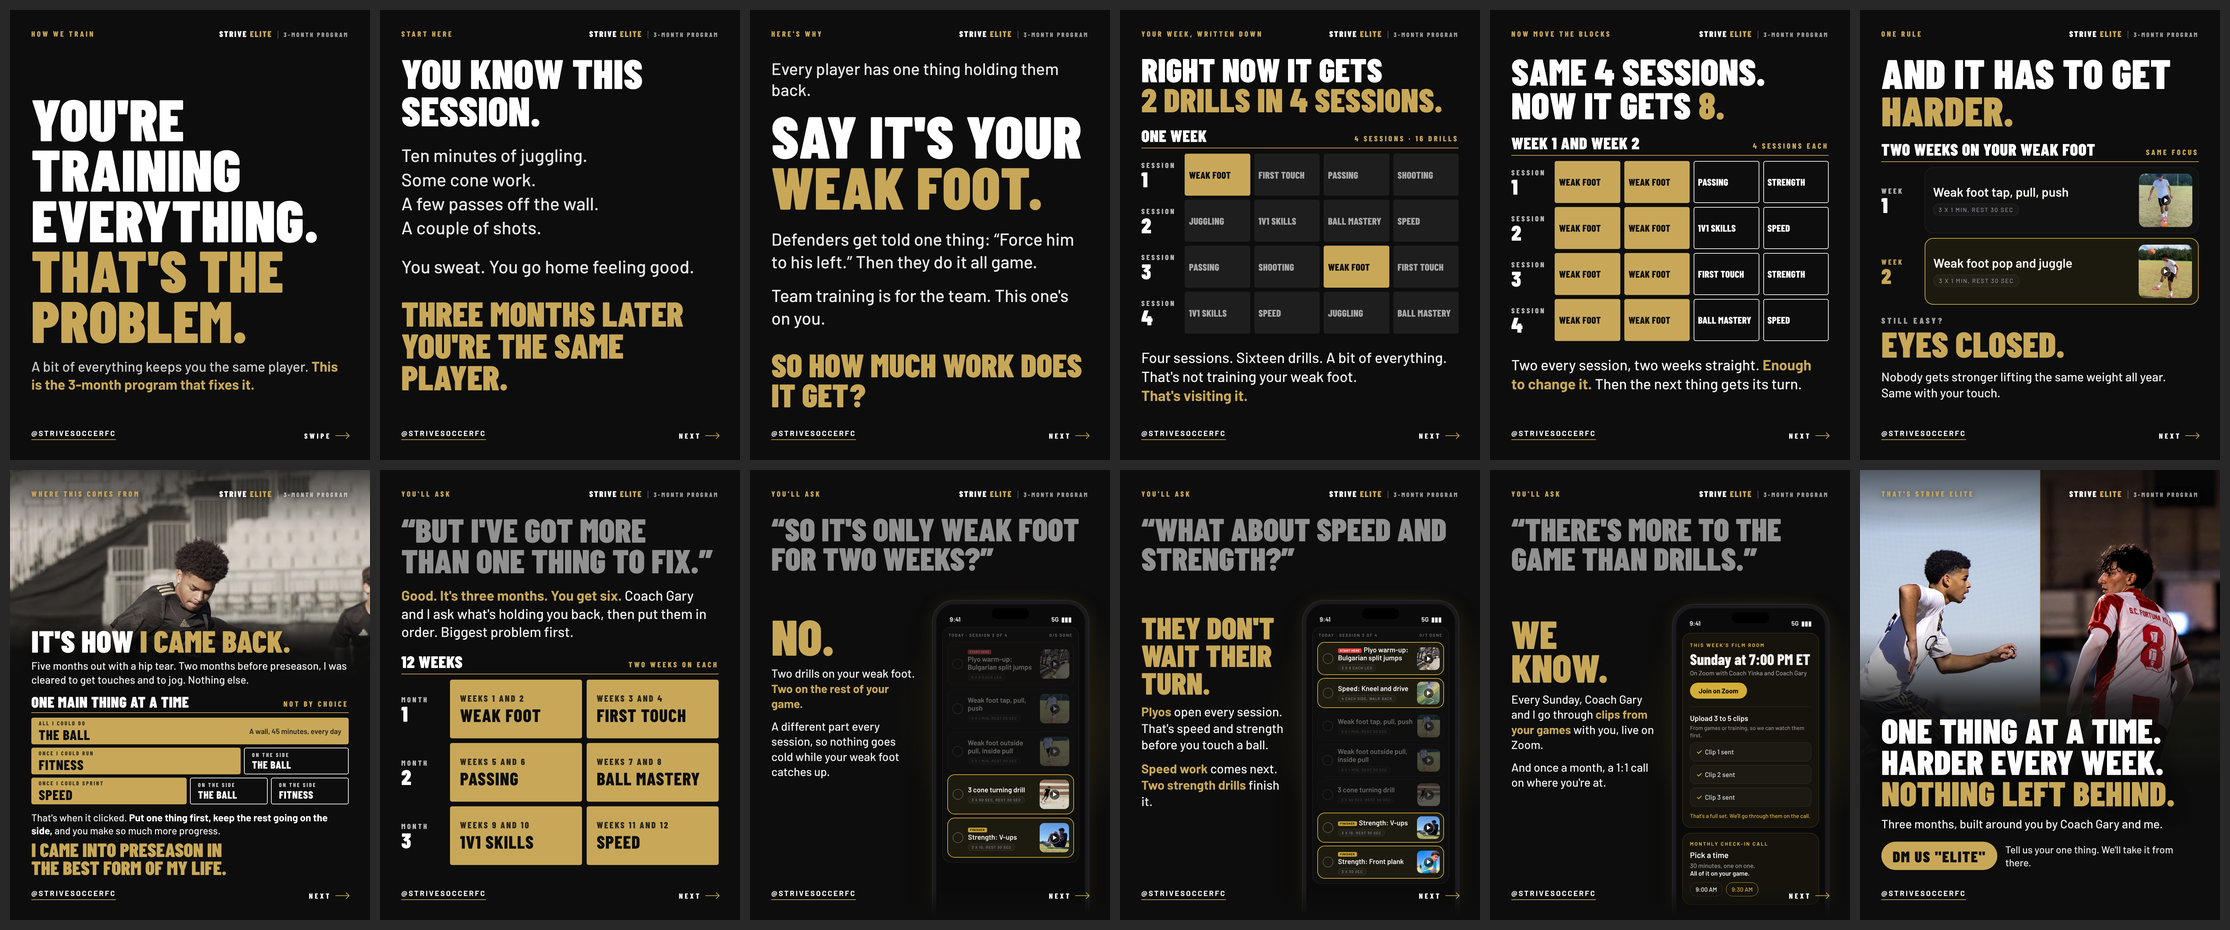
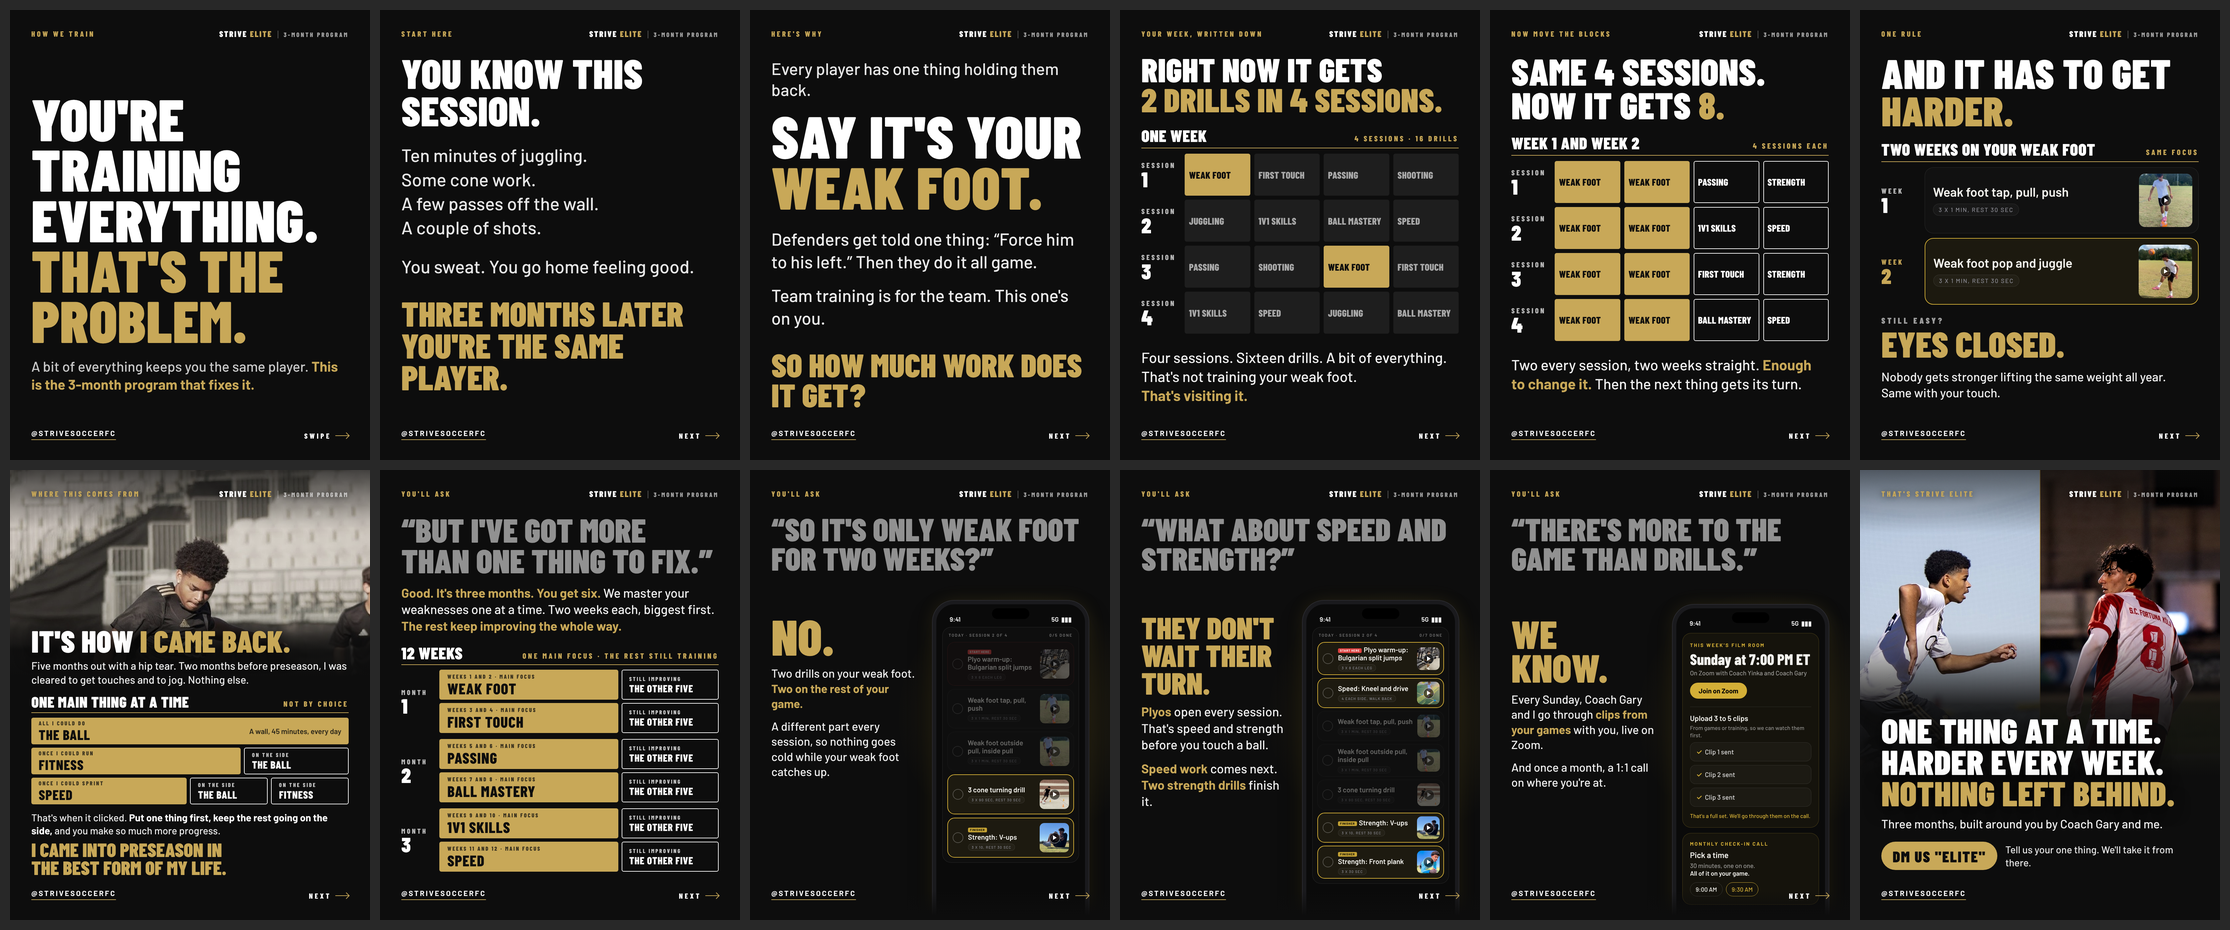
Opinion carousel: six-focus slide shows one main focus with the rest still improving
Claude-Session: https://claude.ai/code/session_011JsCTTjCbUkHbTuWTKQSXJ

Changed region(s): [[0.1547, 0.6237, 0.3404, 0.9355]]

diff --git a/marketing/program/one-thing-carousel-3/08-six.html b/marketing/program/one-thing-carousel-3/08-six.html
@@ -1,15 +1,25 @@
 <!doctype html><meta charset="utf-8"><link rel="stylesheet" href="../../covers/strive-elite-meeting/fonts.css"><link rel="stylesheet" href="style.css"><title>More than one thing</title>
 <style>
-.q{font-size:100px}.a{margin-top:32px;font-size:42px}
-.sched{margin-top:40px}.tt{gap:14px}.tr{gap:14px}.tr{grid-template-columns:132px 1fr 1fr}
-.bk{height:176px;font-size:54px;padding:0 30px}.bk small{font-size:27px;letter-spacing:.14em;margin-bottom:10px;opacity:.85}
+.q{font-size:100px}.a{margin-top:28px;font-size:38px;line-height:1.3}
+.sched{margin-top:34px}
+.hd{padding-bottom:12px;margin-bottom:14px}
+.g6{display:grid;grid-template-columns:104px 1.85fr 1fr;gap:10px 10px}
+.g6 .lb{grid-row:span 2;display:flex;flex-direction:column;justify-content:center;font-family:'Barlow Condensed';font-weight:800;font-size:21px;letter-spacing:.24em;text-transform:uppercase;color:rgba(255,255,255,.72)}
+.g6 .lb b{font-weight:900;font-size:62px;line-height:.9;letter-spacing:0;color:#fff}
+.g6 .bk{height:90px;font-size:46px;padding:0 24px}
+.g6 .bk small{font-size:17px;letter-spacing:.2em;margin-bottom:4px;opacity:.78}
+.g6 .bk.w{font-size:31px;border-width:2px;padding:0 20px}
+.g6 .sp{margin-top:8px}
 </style>
 <div class="top"><div class="step">You'll ask</div><div class="wm">Strive <span>Elite</span><em>3-month program</em></div></div>
 <div class="pad"><div class="q">&ldquo;But I've got more than one thing to fix.&rdquo;</div>
-<p class="p a"><b>Good. It's three months. You get six.</b> Coach Gary and I ask what's holding you back, then put them in order. Biggest problem first.</p>
-<div class="sched"><div class="hd"><b>12 weeks</b><span>Two weeks on each</span></div><div class="tt">
-<div class="tr"><div class="lb">Month<b>1</b></div><div class="bk g"><small>Weeks 1 and 2</small>Weak foot</div><div class="bk g"><small>Weeks 3 and 4</small>First touch</div></div>
-<div class="tr"><div class="lb">Month<b>2</b></div><div class="bk g"><small>Weeks 5 and 6</small>Passing</div><div class="bk g"><small>Weeks 7 and 8</small>Ball mastery</div></div>
-<div class="tr"><div class="lb">Month<b>3</b></div><div class="bk g"><small>Weeks 9 and 10</small>1v1 skills</div><div class="bk g"><small>Weeks 11 and 12</small>Speed</div></div>
+<p class="p a"><b>Good. It's three months. You get six.</b> We master your weaknesses one at a time. Two weeks each, biggest first. <b>The rest keep improving the whole way.</b></p>
+<div class="sched"><div class="hd"><b>12 weeks</b><span>One main focus &middot; the rest still training</span></div><div class="g6">
+<div class="lb">Month<b>1</b></div><div class="bk g"><small>Weeks 1 and 2 &middot; main focus</small>Weak foot</div><div class="bk w"><small>Still improving</small>The other five</div>
+<div class="bk g"><small>Weeks 3 and 4 &middot; main focus</small>First touch</div><div class="bk w"><small>Still improving</small>The other five</div>
+<div class="lb sp">Month<b>2</b></div><div class="bk g sp"><small>Weeks 5 and 6 &middot; main focus</small>Passing</div><div class="bk w sp"><small>Still improving</small>The other five</div>
+<div class="bk g"><small>Weeks 7 and 8 &middot; main focus</small>Ball mastery</div><div class="bk w"><small>Still improving</small>The other five</div>
+<div class="lb sp">Month<b>3</b></div><div class="bk g sp"><small>Weeks 9 and 10 &middot; main focus</small>1v1 skills</div><div class="bk w sp"><small>Still improving</small>The other five</div>
+<div class="bk g"><small>Weeks 11 and 12 &middot; main focus</small>Speed</div><div class="bk w"><small>Still improving</small>The other five</div>
 </div></div></div>
 <div class="handle">@strivesoccerfc</div><div class="swipe">Next <i></i></div>

diff --git a/CLAUDE.md b/CLAUDE.md
@@ -4037,6 +4037,7 @@ commit.
       THEN (Coach Yinka: "for my story ... it seems like I was only working on speed and fitness after the ball ... it doesn't correctly communicate how I could only work on the wall, and then I was able to work on fitness, and then I was able to work on speed ... the reason that it was so effective is because I was forced to just work on one thing at a time, and that's when I came up with this discovery that when you focus on one thing primarily while obviously working on the others on the side, you make so much more progress"): THE COMEBACK SLIDE REBUILT around that (07-story). "Five months out with a hip tear. Two months before preseason, I was cleared for touches and a jog. Nothing else." / schedule header ONE MAIN THING AT A TIME, right side NOT BY CHOICE / three rows in the post's own colours (gold the main thing, white what stayed on the side): All I could do THE BALL (a wall, 45 minutes, every day); Once I could run FITNESS with the ball on the side; Once I could sprint SPEED with the ball and fitness on the side / "That's when it clicked. Put one thing first, keep the rest going on the side, and you make so much more progress." / I CAME INTO PRESEASON IN THE BEST FORM OF MY LIFE. Headline and photo unchanged; the headline sits a little higher over his chest to make room. "Nothing else" and "That's when it clicked" are my wording of his point, his to check. Caption unchanged. Sent, not posted.
       THEN (Coach Yinka: "to jog not a jog"): the comeback slide's set-up reads "Two months before preseason, I was cleared to get touches and to jog. Nothing else." Re-rendered and sent; nothing else changed.
       THEN (Coach Yinka: "for the theres more than drills slide the copy under pick a time should be more attractive highlighting the attention on them"): on slide 11 the line under "Pick a time" in the check-in card is "30 minutes, one on one. All of it on your game." (the second sentence in white), replacing "One call a month. Tap a time to book it." The 30 minutes is his Nov 5 example and matches the 9:00 / 9:30 times shown; the coach sets the length per day in the app. THE APP'S OWN CARD STILL SAYS THE OLD LINE (CheckinBooking.tsx); changing it to match is one line, on his word. Re-rendered and sent; nothing else changed. Not posted.
+      THEN (Coach Yinka, with a screenshot of the six-focus slide: "make it clear that we are focusing on mastering weaknesses 1 by 1 periodically while improving the others simultainiusly"): SLIDE 8 REBUILT (08-six). Copy: "Good. It's three months. You get six. We master your weaknesses one at a time. Two weeks each, biggest first. The rest keep improving the whole way." Graphic: 12 WEEKS, "One main focus, the rest still training", six rows in the story slide's colours, each a gold block (Weeks 1 and 2, main focus: WEAK FOOT, and so on through first touch, passing, ball mastery, 1v1 skills, speed) beside a white block "Still improving: THE OTHER FIVE", grouped by month. The line about Coach Gary and him asking what holds the player back is off this slide (the close still says the three months are built by both). Re-rendered and sent; the other eleven unchanged. Not posted.
 
 ## Skills (use them without being asked)
 

diff --git a/marketing/program/one-thing-carousel-3/README.md b/marketing/program/one-thing-carousel-3/README.md
@@ -76,8 +76,12 @@ the strength finisher or the speed drill.
    once fitness and speed started, and never said he was forced into one
    thing at a time, which is where the structure comes from.)
 8. "BUT I'VE GOT MORE THAN ONE THING TO FIX." / Good. It's three months.
-   You get six. Coach Gary and I ask what's holding you back, then put
-   them in order. Biggest problem first.
+   You get six. We master your weaknesses one at a time. Two weeks each,
+   biggest first. The rest keep improving the whole way. / 12 WEEKS, one
+   main focus, the rest still training: six rows, each a gold block (the
+   main focus for those two weeks: weak foot, first touch, passing, ball
+   mastery, 1v1 skills, speed) beside a white block "Still improving:
+   the other five". Same gold and white as his story slide before it.
 9. "SO IT'S ONLY WEAK FOOT FOR TWO WEEKS?" / NO. Two drills on your weak
    foot. Two on the rest of your game. A different part every session, so
    nothing goes cold while your weak foot catches up. (The app's session:
